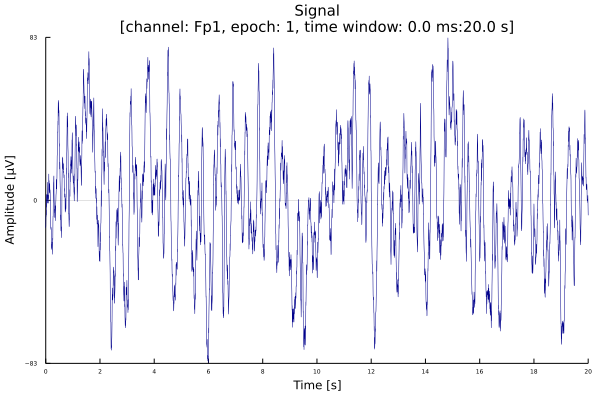
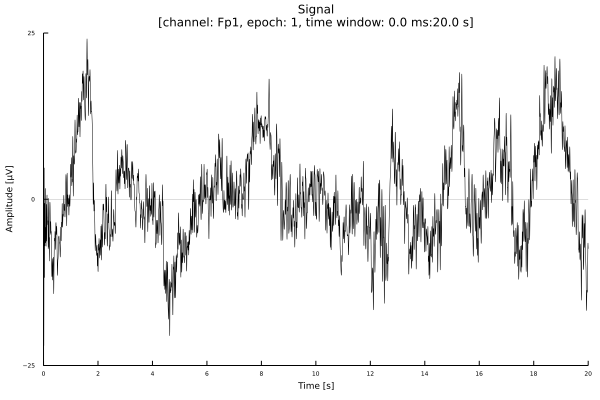
add: Tutorial.md

diff --git a/Tutorial.md b/Tutorial.md
@@ -630,7 +630,7 @@ eeg_plot_save(p, file_name="images/edf_avg.png")
 ```julia
 p = eeg_plot_signal_butterfly(edf)
 eeg_plot_save(p, file_name="images/edf_butterfly_simple.png")
-p = eeg_plot_signal_butterfly_details(edf)
+p = eeg_plot_signal_butterfly_details(edf, norm=true)
 eeg_plot_save(p, file_name="images/edf_butterfly.png")
 ```
 
@@ -774,7 +774,7 @@ eeg_plot_save(p, file_name="images/edf_alpha_topo.png")
 
 ![edf topo :power](images/edf_alpha_topo.png)
 
-Plot phase difference at time = 1s
+Plot phase difference at time = 1s (sample = 256 as fs = 256 Hz)
 ```julia
 pdiff = eeg_phdiff(edf)
 p = eeg_plot_mcomponent_topo(edf, epoch=1, c=pdiff[:, 256, :])
@@ -782,7 +782,7 @@ eeg_plot_save(p, file_name="images/edf_phdiff_topo.png")
 ```
 ![](images/edf_phdiff_topo.png)
 
-Plot amp difference at time = 1s
+Plot amp difference at time = 1s (sample = 256 as fs = 256 Hz)
 ```julia
 ampdiff = eeg_ampdiff(edf)
 p = eeg_plot_mcomponent_topo(edf, epoch=1, c=ampdiff[:, 256, :])
